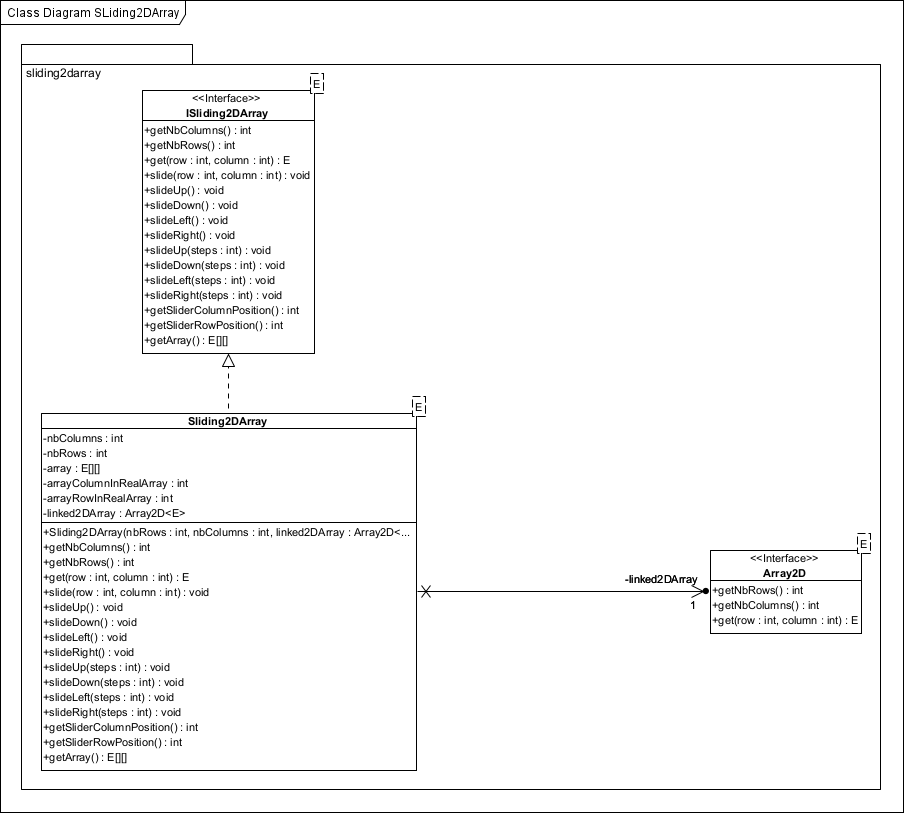
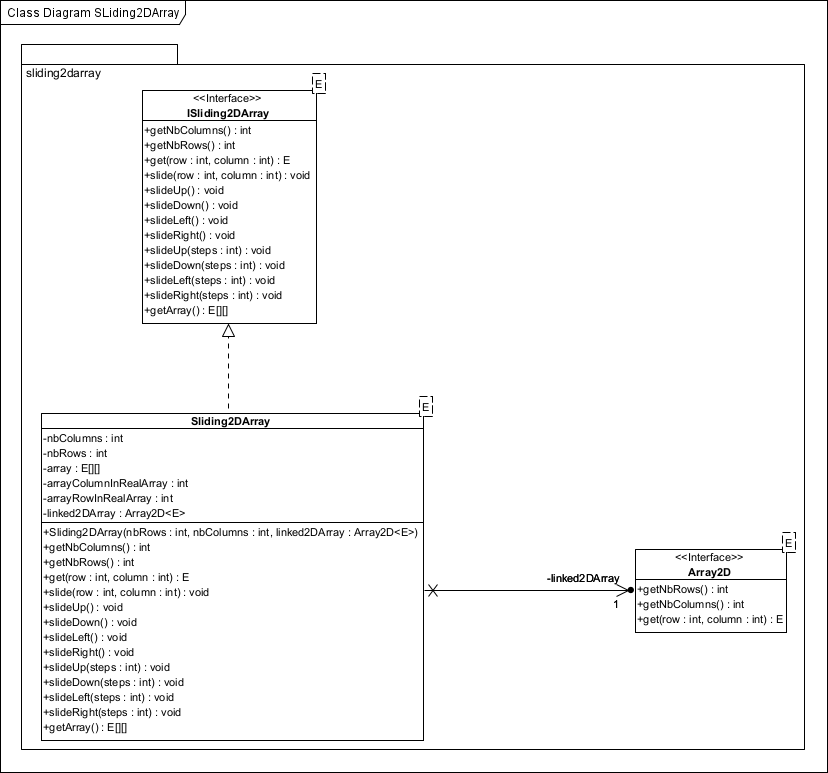
update README.md change some method and interface names remove two methods in Sliding2DArray and the interface

diff --git a/src/test/java/com/jad/sliding2darray/Sliding2DArrayTest.java b/src/test/java/com/jad/sliding2darray/Sliding2DArrayTest.java
@@ -11,7 +11,7 @@ class Sliding2DArrayTest {
 
   private final int nbRows = 5;
   private final int nbColumns = 10;
-  private final Array2DImpl world = new Array2DImpl();
+  private final IWorldImpl world = new IWorldImpl();
   private ISliding2DArray<Point> playerView;
 
   @BeforeEach
@@ -107,23 +107,23 @@ class Sliding2DArrayTest {
     }
   }
 
-  private static class Array2DImpl implements Array2D<Point> {
+  private static class IWorldImpl implements IWorld<Point> {
 
     private static final int ROWS = 100;
     private static final int COLUMNS = 100;
 
-    private static boolean isOutOfBounds(final int row, final int column) {
-      return (row >= 0) && (row < Array2DImpl.ROWS) && (column >= 0) && (column < Array2DImpl.COLUMNS);
+    private static boolean isInside(final int row, final int column) {
+      return (row >= 0) && (row < IWorldImpl.ROWS) && (column >= 0) && (column < IWorldImpl.COLUMNS);
     }
 
     @Override
     public int getNbRows() {
-      return Array2DImpl.ROWS;
+      return IWorldImpl.ROWS;
     }
 
     @Override
     public int getNbColumns() {
-      return Array2DImpl.COLUMNS;
+      return IWorldImpl.COLUMNS;
     }
 
     @Override
@@ -135,7 +135,7 @@ class Sliding2DArrayTest {
       final Point[][] array = new Point[nbRows][nbColumns];
       for (int row = 0; row < nbRows; row++) {
         for (int column = 0; column < nbColumns; column++) {
-          if (Array2DImpl.isOutOfBounds(row + startRow, column + startColumn)) {
+          if (IWorldImpl.isInside(row + startRow, column + startColumn)) {
             array[row][column] = new Point(row + startRow, column + startColumn);
           } else {
             array[row][column] = null;

diff --git a/src/main/java/com/jad/sliding2darray/Sliding2DArray.java b/src/main/java/com/jad/sliding2darray/Sliding2DArray.java
@@ -10,25 +10,23 @@ public class Sliding2DArray<E> implements ISliding2DArray<E> {
   private final int nbColumns;
   private final int nbRows;
   private final E[][] array;
-  private final Array2D<E> linked2DArray;
-  private int arrayColumnInRealArray;
-  private int arrayRowInRealArray;
+  private final IWorld<E> world;
+  private int arrayColumnInRealArray = 0;
+  private int arrayRowInRealArray = 0;
 
   /**
    * Instantiates a new Sliding 2 d array.
    *
-   * @param nbRows        the nb rows
-   * @param nbColumns     the nb columns
-   * @param linked2DArray the linked 2 d array
+   * @param nbRows    the nb rows
+   * @param nbColumns the nb columns
+   * @param world     the world
    */
   @SuppressWarnings("unchecked")
-  public Sliding2DArray(final int nbRows, final int nbColumns, final Array2D<E> linked2DArray) {
+  public Sliding2DArray(final int nbRows, final int nbColumns, final IWorld<E> world) {
     this.nbColumns = nbColumns;
     this.nbRows = nbRows;
     this.array = (E[][]) new Object[nbRows][nbColumns];
-    this.arrayColumnInRealArray = 0;
-    this.arrayRowInRealArray = 0;
-    this.linked2DArray = linked2DArray;
+    this.world = world;
   }
 
   @Override
@@ -88,16 +86,6 @@ public class Sliding2DArray<E> implements ISliding2DArray<E> {
 
   @Override
   public final void slideRight(final int steps) {
-    throw new UnsupportedOperationException("Not implemented yet");
-  }
-
-  @Override
-  public int getSliderColumnPosition() {
-    throw new UnsupportedOperationException("Not implemented yet");
-  }
-
-  @Override
-  public int getSliderRowPosition() {
     throw new UnsupportedOperationException("Not implemented yet");
   }
 

diff --git a/src/main/java/com/jad/sliding2darray/IWorld.java b/src/main/java/com/jad/sliding2darray/IWorld.java
@@ -1,0 +1,32 @@
+package com.jad.sliding2darray;
+
+/**
+ * The interface World.
+ *
+ * @param <E> the type parameter
+ */
+public interface IWorld<E> {
+
+  /**
+   * Gets nb rows.
+   *
+   * @return the nb rows
+   */
+  int getNbRows();
+
+  /**
+   * Gets nb columns.
+   *
+   * @return the nb columns
+   */
+  int getNbColumns();
+
+  /**
+   * Get e.
+   *
+   * @param row    the row
+   * @param column the column
+   * @return the e
+   */
+  E get(final int row, final int column);
+}

diff --git a/src/main/java/com/jad/sliding2darray/ISliding2DArray.java b/src/main/java/com/jad/sliding2darray/ISliding2DArray.java
@@ -87,20 +87,6 @@ public interface ISliding2DArray<E> {
   void slideRight(int steps);
 
   /**
-   * Gets sliding array column position.
-   *
-   * @return the slider column position
-   */
-  int getSliderColumnPosition();
-
-  /**
-   * Gets sliding array row position.
-   *
-   * @return the slider row position
-   */
-  int getSliderRowPosition();
-
-  /**
    * Get array e [ ] [ ].
    *
    * @return the e [ ] [ ]

diff --git a/README.md b/README.md
@@ -90,11 +90,18 @@ Une autre illustration pour bien comprendre le principe :
 ![Illustration du tableau 2D glissant](https://github.com/Jean-Aymeric/Sliding2DArrayStart/blob/master/img/sliding2darray3.png)
 La nouvelle colonne de droite est stockée à gauche du tableau glissant.
 
-C'est ce tableau glissant que vous allez devoir implémenter dans ce Kata.
+C'est ce tableau glissant que vous allez devoir implémenter dans ce Kata. Pour le moment seules les
+tuiles seront gérées par ce tableau glissant. Les pièces seront implémentées dans un second temps.
 
 ## Voici le diagramme de classe de la situation initiale :
 
 ![Diagramme de classe de la situation initiale](https://github.com/Jean-Aymeric/Sliding2DArrayStart/blob/master/img/classdiagramsliding2darray.png)
+
+L'interface `ISliding2DArray` contient toutes les méthodes que votre composant doit implémenter.
+
+L'interface `Array2D` est présente pour que votre tableau ne soit pas dépendant de l'implémentation
+faite pour gérer les tuiles ou les pièces. Elle contient 2 méthodes `getNbColumns()`
+et `getNbRows()` qui permettent de connaitre les dimensions du monde du jeu.
 
 Comme vous pouvez le voir, il n'y a pas de `Main`, mais il y a des tests unitaires.
 
@@ -104,7 +111,7 @@ Si vous lancez les tests, vous devez obtenir ceci.
 java.lang.UnsupportedOperationException: Not implemented yet
 
 	at com.jad.sliding2darray.Sliding2DArray.slideUp(Sliding2DArray.java:56)
-	at com.jad.sliding2darray.Sliding2DArrayTest.slideUp(Sliding2DArrayTest.java:61)
+	at com.jad.sliding2darray.Sliding2DArrayTest.slideUp(Sliding2DArrayTest.java:51)
 	at java.base/java.lang.reflect.Method.invoke(Method.java:578)
 	at java.base/java.util.ArrayList.forEach(ArrayList.java:1511)
 	at java.base/java.util.ArrayList.forEach(ArrayList.java:1511)
@@ -113,7 +120,7 @@ java.lang.UnsupportedOperationException: Not implemented yet
 java.lang.UnsupportedOperationException: Not implemented yet
 
 	at com.jad.sliding2darray.Sliding2DArray.slideDown(Sliding2DArray.java:61)
-	at com.jad.sliding2darray.Sliding2DArrayTest.slideDown(Sliding2DArrayTest.java:71)
+	at com.jad.sliding2darray.Sliding2DArrayTest.slideDown(Sliding2DArrayTest.java:66)
 	at java.base/java.lang.reflect.Method.invoke(Method.java:578)
 	at java.base/java.util.ArrayList.forEach(ArrayList.java:1511)
 	at java.base/java.util.ArrayList.forEach(ArrayList.java:1511)
@@ -122,7 +129,7 @@ java.lang.UnsupportedOperationException: Not implemented yet
 java.lang.UnsupportedOperationException: Not implemented yet
 
 	at com.jad.sliding2darray.Sliding2DArray.slideLeft(Sliding2DArray.java:66)
-	at com.jad.sliding2darray.Sliding2DArrayTest.slideLeft(Sliding2DArrayTest.java:81)
+	at com.jad.sliding2darray.Sliding2DArrayTest.slideLeft(Sliding2DArrayTest.java:82)
 	at java.base/java.lang.reflect.Method.invoke(Method.java:578)
 	at java.base/java.util.ArrayList.forEach(ArrayList.java:1511)
 	at java.base/java.util.ArrayList.forEach(ArrayList.java:1511)
@@ -131,7 +138,7 @@ java.lang.UnsupportedOperationException: Not implemented yet
 java.lang.UnsupportedOperationException: Not implemented yet
 
 	at com.jad.sliding2darray.Sliding2DArray.get(Sliding2DArray.java:46)
-	at com.jad.sliding2darray.Sliding2DArrayTest.get(Sliding2DArrayTest.java:40)
+	at com.jad.sliding2darray.Sliding2DArrayTest.get(Sliding2DArrayTest.java:36)
 	at java.base/java.lang.reflect.Method.invoke(Method.java:578)
 	at java.base/java.util.ArrayList.forEach(ArrayList.java:1511)
 	at java.base/java.util.ArrayList.forEach(ArrayList.java:1511)
@@ -140,7 +147,7 @@ java.lang.UnsupportedOperationException: Not implemented yet
 java.lang.UnsupportedOperationException: Not implemented yet
 
 	at com.jad.sliding2darray.Sliding2DArray.slide(Sliding2DArray.java:51)
-	at com.jad.sliding2darray.Sliding2DArrayTest.slide(Sliding2DArrayTest.java:55)
+	at com.jad.sliding2darray.Sliding2DArrayTest.slide(Sliding2DArrayTest.java:43)
 	at java.base/java.lang.reflect.Method.invoke(Method.java:578)
 	at java.base/java.util.ArrayList.forEach(ArrayList.java:1511)
 	at java.base/java.util.ArrayList.forEach(ArrayList.java:1511)
@@ -149,7 +156,7 @@ java.lang.UnsupportedOperationException: Not implemented yet
 java.lang.UnsupportedOperationException: Not implemented yet
 
 	at com.jad.sliding2darray.Sliding2DArray.slideRight(Sliding2DArray.java:71)
-	at com.jad.sliding2darray.Sliding2DArrayTest.slideRight(Sliding2DArrayTest.java:91)
+	at com.jad.sliding2darray.Sliding2DArrayTest.slideRight(Sliding2DArrayTest.java:97)
 	at java.base/java.lang.reflect.Method.invoke(Method.java:578)
 	at java.base/java.util.ArrayList.forEach(ArrayList.java:1511)
 	at java.base/java.util.ArrayList.forEach(ArrayList.java:1511)
@@ -170,11 +177,10 @@ Pour bien réussir ce Kata, je vous conseille de suivre ces étapes :
   remplira votre tableau glissant avec le monde en fonction de la position du tableau dans le
   monde (`arrayColumnInRealArray` et `arrayRowInRealArray`).
 - ajouter la gestion des bords du monde. Si le tableau sort du monde, les cases
-  correspondantes doivent être remplies avec `null`. Une petite méthode `isOutOfBounds()` rendra la
-  chose plus lisible et plus pratique. Les tests devraient tous passer. Ils ne
-  vérifient pas la rotation.
+  correspondantes doivent être remplies avec `null`. Une petite méthode `isInside()` rendra la
+  chose plus lisible et plus pratique. Les tests devraient tous passer. Ils ne vérifient pas la
+  rotation.
 - implémentez ensuite la rotation vers le bas ou la droite. Ils sont, à mon avis plus simples que
-  les
-  deux autres.
+  les deux autres.
 - implémentez les deux dernières rotations.
 - factorisez les rotations. Il doit y avoir du code dupliqué entre vos rotations. 
